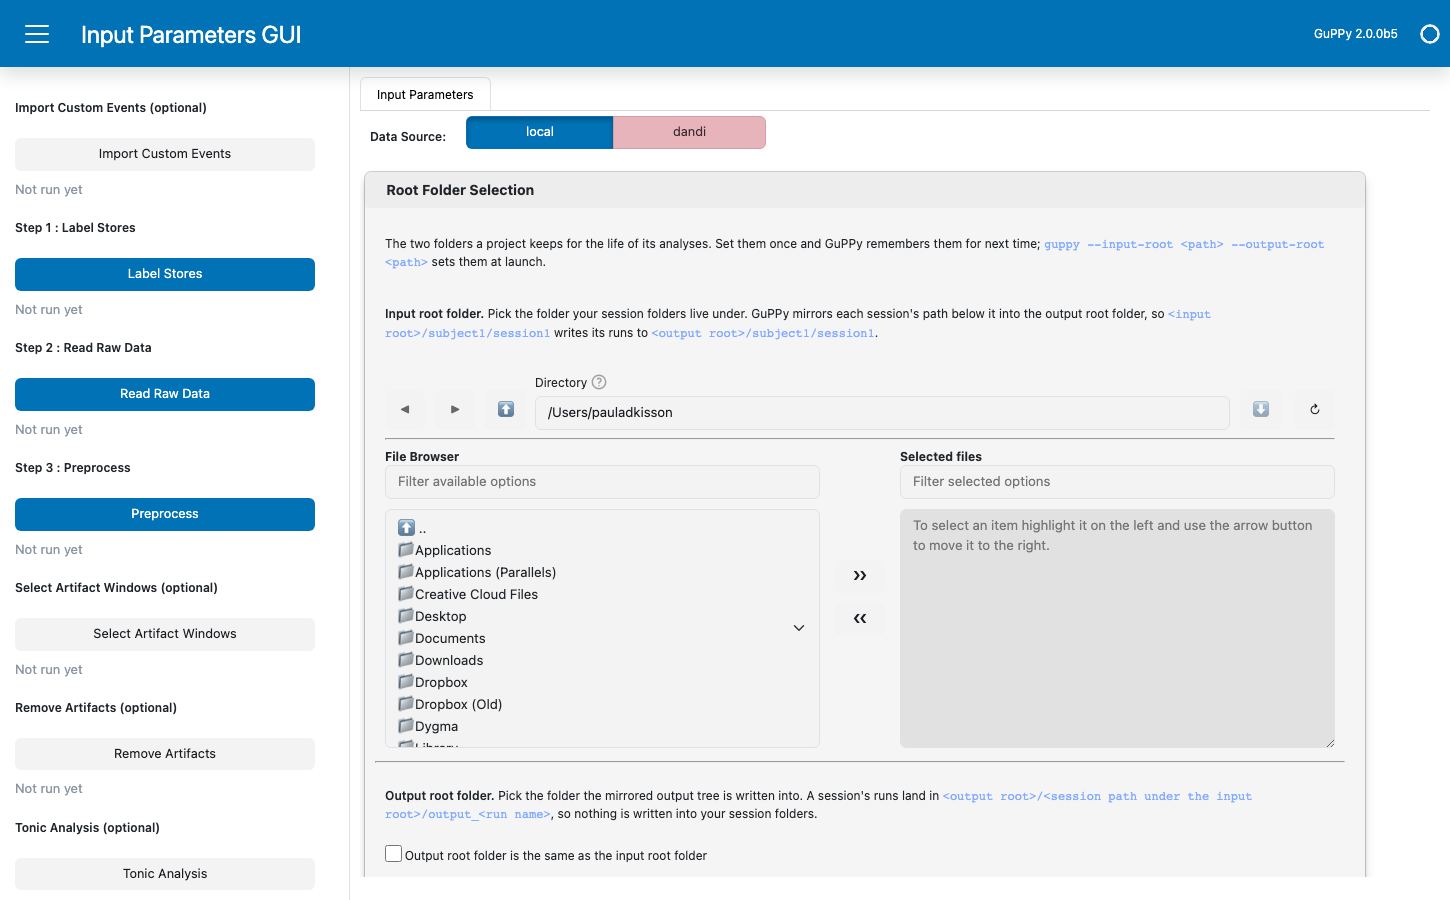
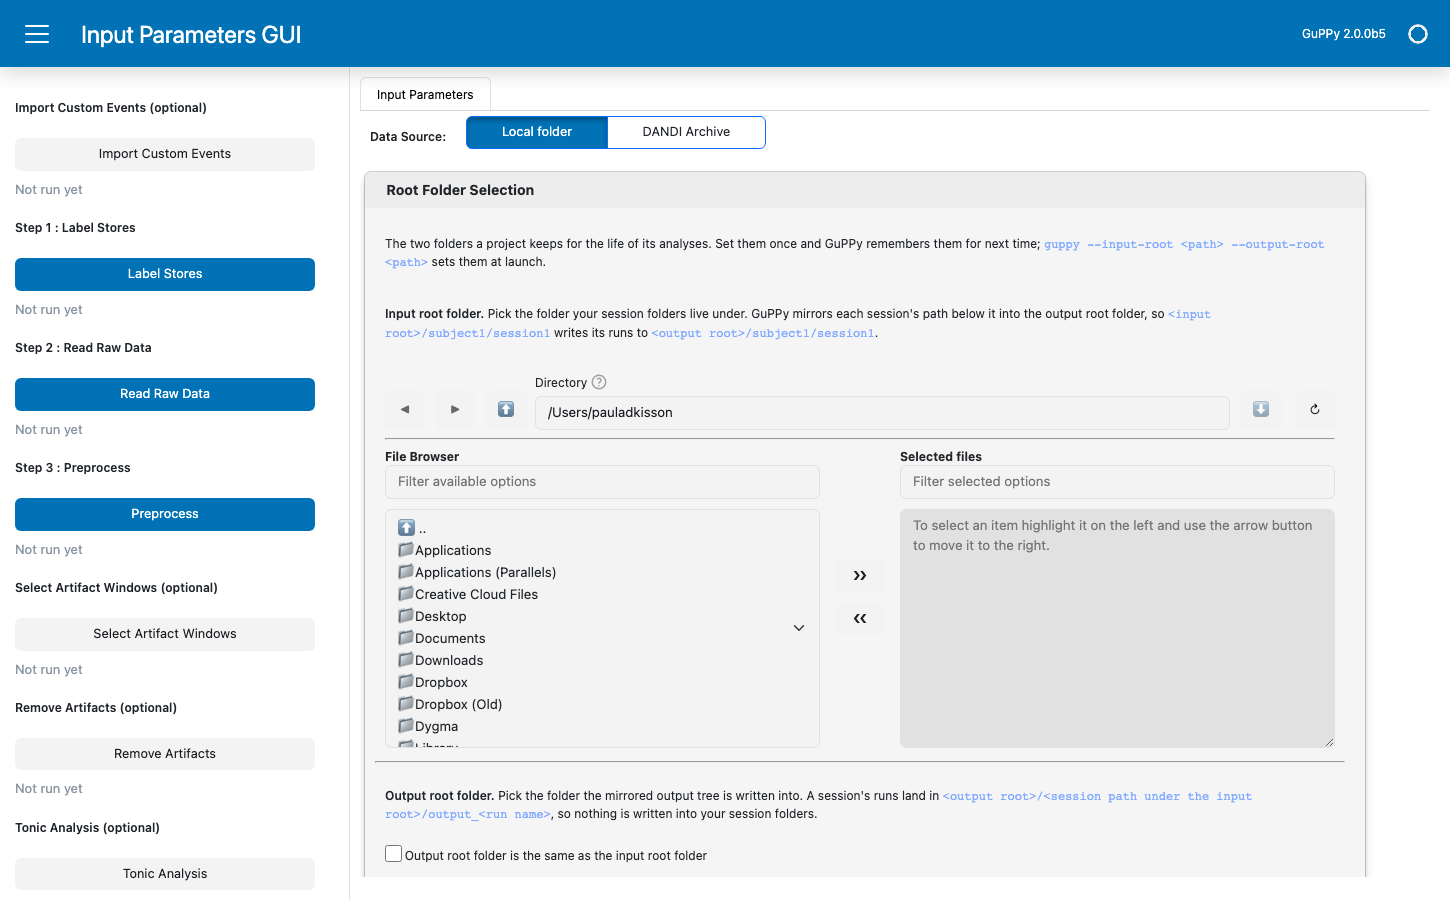
Restyle the Data Source toggle as one outlined switch
Drop the pink DANDI button, use the outlined primary segmented style the
artifact-windows mode toggle already uses, and label the options
"Local folder" / "DANDI Archive" (values stay local/dandi). Update the
docs that named the old labels and retake the screenshots that show it.

Changed region(s): [[0.3414, 0.1244, 0.5276, 0.1867], [0.9, 0.0311, 0.9931, 0.0622]]

diff --git a/src/guppy/frontend/input_parameters.py b/src/guppy/frontend/input_parameters.py
@@ -224,27 +224,14 @@ class ParameterForm:
     def setup_individual_parameters(self) -> None:
         """Build all widgets for the individual-analysis card and store them as instance attributes."""
         # Individual analysis components
-        # Color the "dandi" button muted pink (matches the DANDI brain-logo palette) so
-        # the two options are visually distinguishable at a glance.
-        dandi_button_stylesheet = """
-        :host .bk-btn-group > button:nth-child(2) {
-            background-color: #E8B4BC !important;
-            border-color: #D89AA3 !important;
-            color: #3A2A2F !important;
-        }
-        :host .bk-btn-group > button:nth-child(2).bk-active {
-            background-color: #C98A94 !important;
-            border-color: #B56E78 !important;
-            color: #FFFFFF !important;
-        }
-        """
+        # An outlined segmented control: the selected source fills in, the other stays an outline.
         self.source_mode = pn.widgets.RadioButtonGroup(
             name="Data Source",
-            options=["local", "dandi"],
+            options={"Local folder": "local", "DANDI Archive": "dandi"},
             value="local",
             button_type="primary",
+            button_style="outline",
             width=300,
-            stylesheets=[dandi_button_stylesheet],
         )
         self.source_mode.param.watch(self._on_source_mode_change, "value")
 

diff --git a/tests/unit/frontend/test_input_parameters.py b/tests/unit/frontend/test_input_parameters.py
@@ -305,6 +305,10 @@ class TestParameterFormInitialState:
         assert parameter_form.session_selector_header.visible is True
         assert parameter_form.dandi_file_panel.panel.visible is False
 
+    def test_source_mode_labels_map_to_mode_values(self, parameter_form):
+        assert parameter_form.source_mode.options == {"Local folder": "local", "DANDI Archive": "dandi"}
+        assert parameter_form.source_mode.button_style == "outline"
+
 
 class TestParameterForm:
     def test_add_button_grows_the_comparison_table_without_limit(self, parameter_form):

diff --git a/docs/take_screenshots.py b/docs/take_screenshots.py
@@ -796,7 +796,7 @@ def screenshot_run_name_section(page: Page, *, run_name: str, filename: str) -> 
 
 
 def screenshot_dandi_source_selection(page: Page, tmp_path: Path) -> None:
-    """How-to: the Data Source toggle set to ``dandi``, and the DANDI panel it reveals.
+    """How-to: the Data Source toggle set to DANDI Archive, and the DANDI panel it reveals.
 
     Assigning ``source_mode`` fires its param watcher synchronously, which swaps the DANDI
     panel in and runs its opening search, so the catalog is populated before the template is

diff --git a/docs/how-to/analyze-dandi-data.md b/docs/how-to/analyze-dandi-data.md
@@ -12,13 +12,13 @@ Streaming a public dandiset needs no DANDI API key. GuPPy reads the dandiset's
 
 ## Choosing a dandiset and assets
 
-Set **Data Source**, above the cards at the top of the page, to `dandi`. In
+Set **Data Source**, above the cards at the top of the page, to **DANDI Archive**. In
 **Input Folder Selection** the local file browser is replaced by the DANDI panel,
 which walks you through three screens: a list of dandisets, one dandiset's page,
 and that dandiset's files.
 
 ```{image} ../_static/images/dandi_source_selection.png
-:alt: The Data Source toggle at the top of the page switched from local to dandi, with the Input Folder Selection card below it showing the DANDI source panel with its search box holding the word photometry, the filter checkbox beneath it, and a table of matching dandisets
+:alt: The Data Source toggle at the top of the page switched from Local folder to DANDI Archive, with the Input Folder Selection card below it showing the DANDI source panel with its search box holding the word photometry, the filter checkbox beneath it, and a table of matching dandisets
 :width: 100%
 ```
 

diff --git a/docs/reference/parameters.md b/docs/reference/parameters.md
@@ -14,7 +14,7 @@ The toggle above the cards. Decides where the sessions come from.
 
 | Parameter | Description | Type | Default | Options / range |
 |-----------|-------------|------|---------|-----------------|
-| Data Source | Local-folder mode vs DANDI streaming. | radio | `local` | `local`, `dandi` |
+| Data Source | Local-folder mode vs DANDI streaming. | radio | `Local folder` | `Local folder`, `DANDI Archive` |
 
 **Data Source** picks between selecting local session folders from the file browser (the common case) and streaming NWB sessions directly from DANDI. It sits above the cards because it changes what two of them show: the session-folder browser is replaced by the DANDI browser, and Root Folder Selection drops the input root folder a streamed session has no use for. See [Analyze data streamed from the DANDI Archive](../how-to/analyze-dandi-data.md) for the DANDI workflow.
 

diff --git a/docs/tutorials/first_analysis.md b/docs/tutorials/first_analysis.md
@@ -66,7 +66,7 @@ In the **Input Folder Selection** card's **Session folders** browser, navigate t
 :align: center
 ```
 
-The **Data Source** toggle above the cards lets you switch between `local` (the default, file-system browsing) and `dandi` (streaming NWB sessions directly from DANDI). We are using local files here; see [Analyze data streamed from the DANDI Archive](../how-to/analyze-dandi-data.md) for the DANDI workflow.
+The **Data Source** toggle above the cards lets you switch between **Local folder** (the default, file-system browsing) and **DANDI Archive** (streaming NWB sessions directly from DANDI). We are using local files here; see [Analyze data streamed from the DANDI Archive](../how-to/analyze-dandi-data.md) for the DANDI workflow.
 
 ### Set parameters
 
